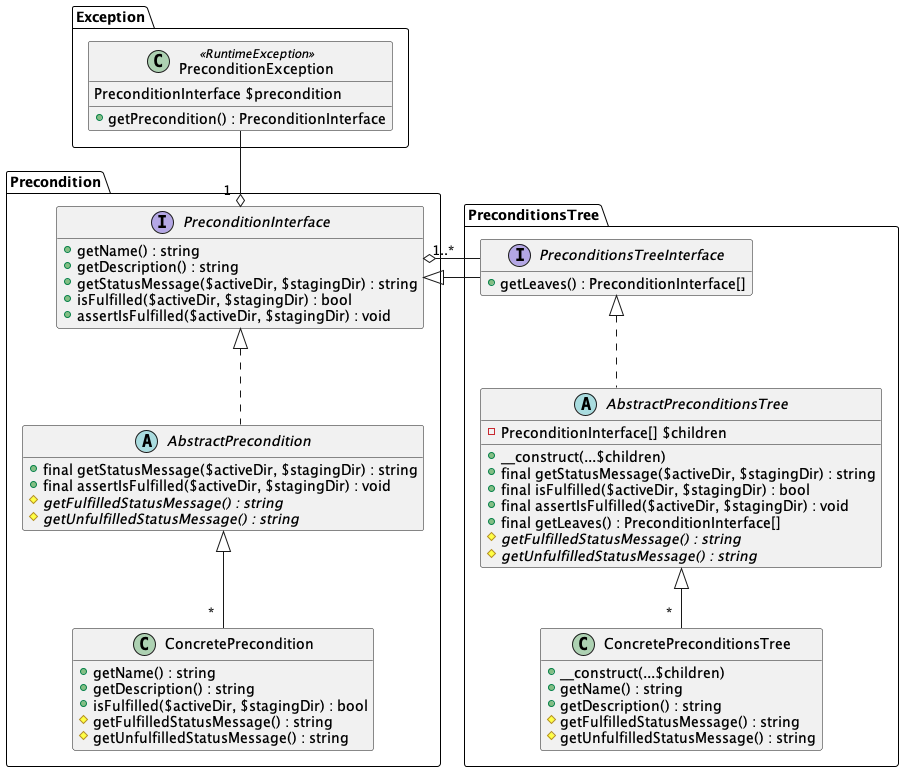
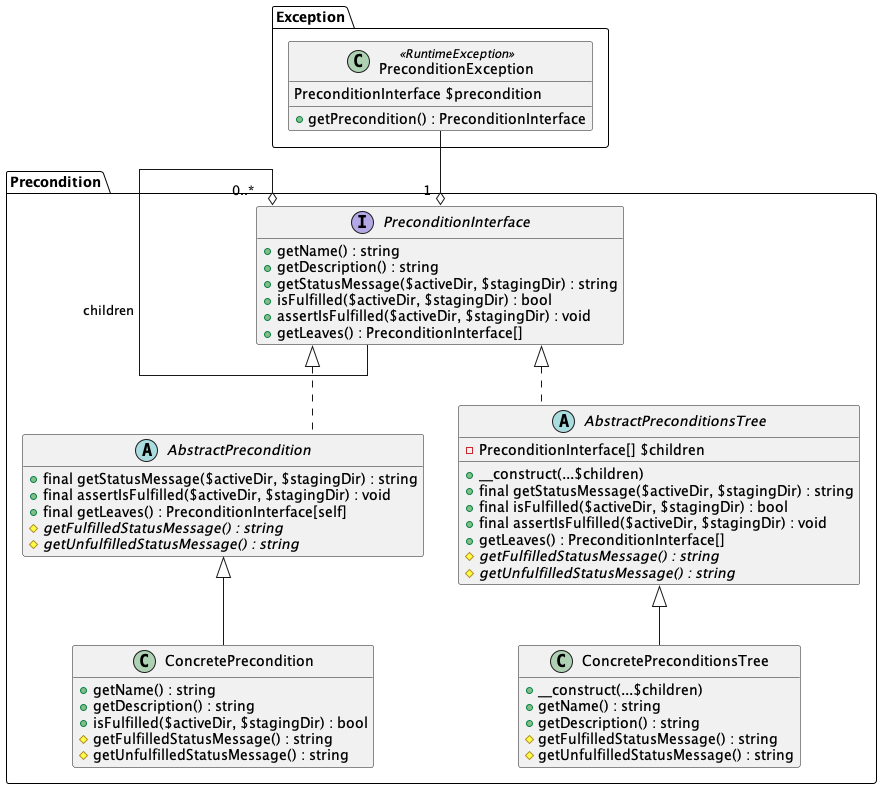
Update preconditions detail diagram.

diff --git a/src/Domain/Service/Precondition/README.md b/src/Domain/Service/Precondition/README.md
@@ -2,9 +2,7 @@
 
 The precondition system defines and inspects the conditions necessary to perform core domain operations, i.e., begin, stage, commit, and clean. In short, it provides mechanisms for capturing individual preconditions with verification logic, optionally collecting them into groups, and determining their status.
 
-The class design contains three main concepts: 1) A precondition defines one atomic boolean condition, e.g., directory exists or application is available, and the ability to test for its fulfillment. 2) A precondition aggregate collects one or more individual preconditions, implementing (a superset of) the same interface, so they can be treated as a single, compound precondition. In other words, it implements [the decorator design pattern](https://sourcemaking.com/design_patterns/decorator). Preconditions and aggregates can be mixed and nested indefinitely. 3) An exception that can be thrown in case of an unfulfilled precondition..
-
-<div align="center"><img src="resources/overview.png" alt="Overview diagram" /></div>
+The class design contains three main concepts: 1) A precondition defines one atomic condition--e.g., directory exists or application is available--and the ability to test for its fulfillment. 2) A precondition tree is a composite of other preconditions and trees which can be mixed and nested indefinitely. In other words, it implements [the decorator design pattern](https://refactoring.guru/design-patterns/decorator). 3) An exception that can be thrown in case of an unfulfilled precondition and provide it to client code.
 
 This diagram depicts the detailed interfaces and relationships. New concrete preconditions should inherit their corresponding abstract classes, which handle precondition-nonspecific features like recursion and exception-handling. 
 
